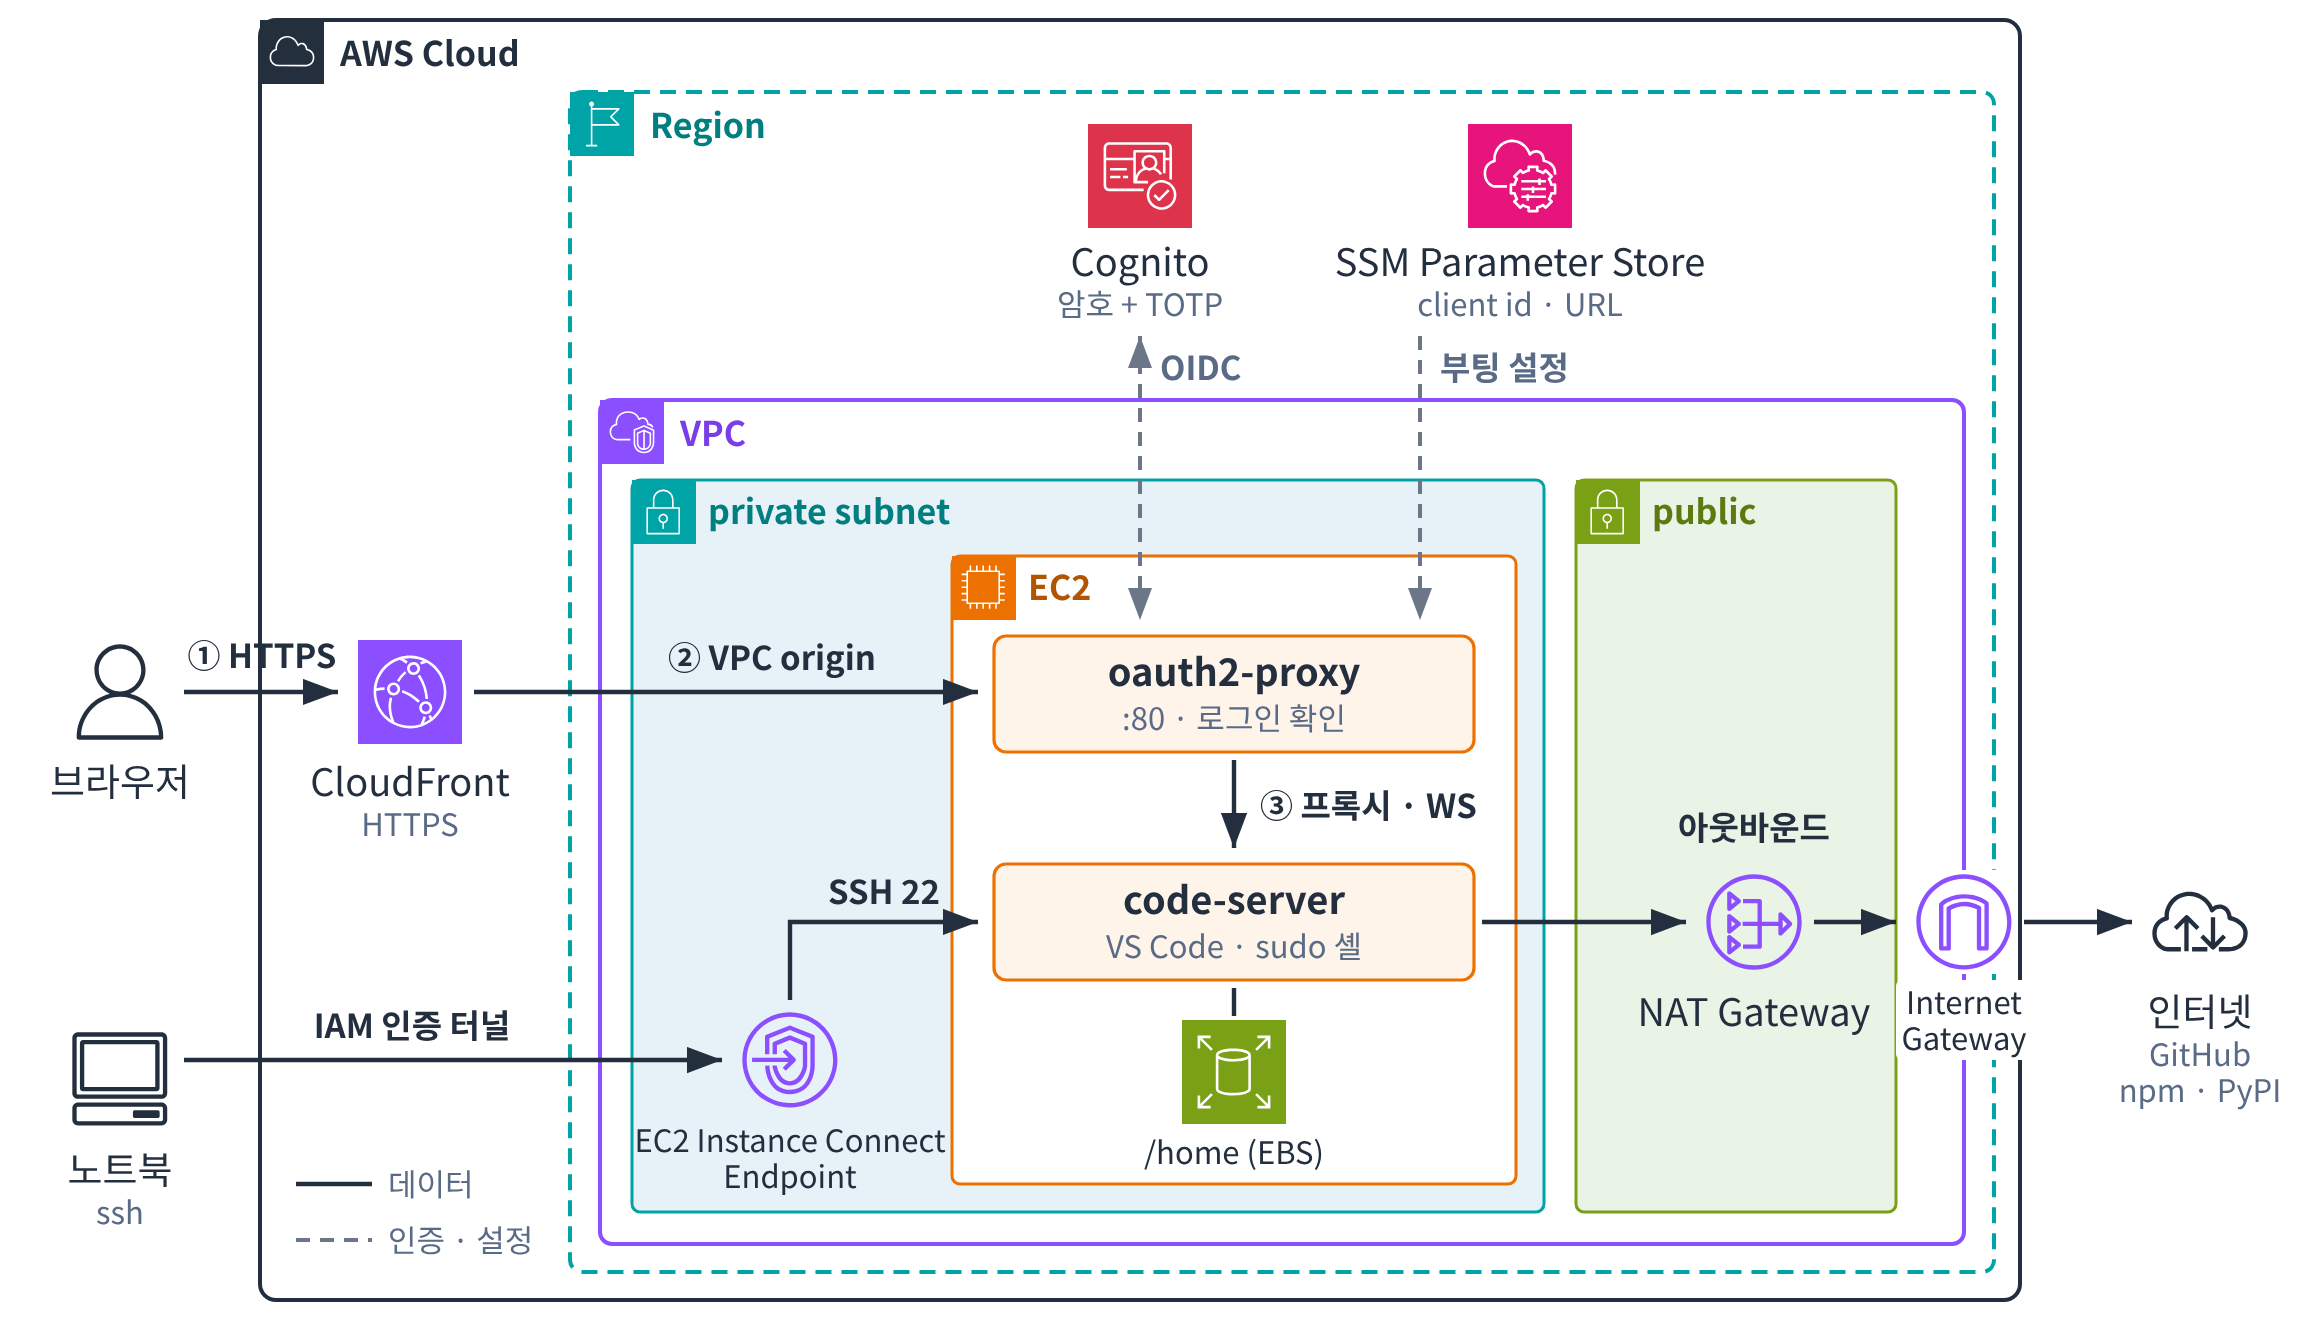
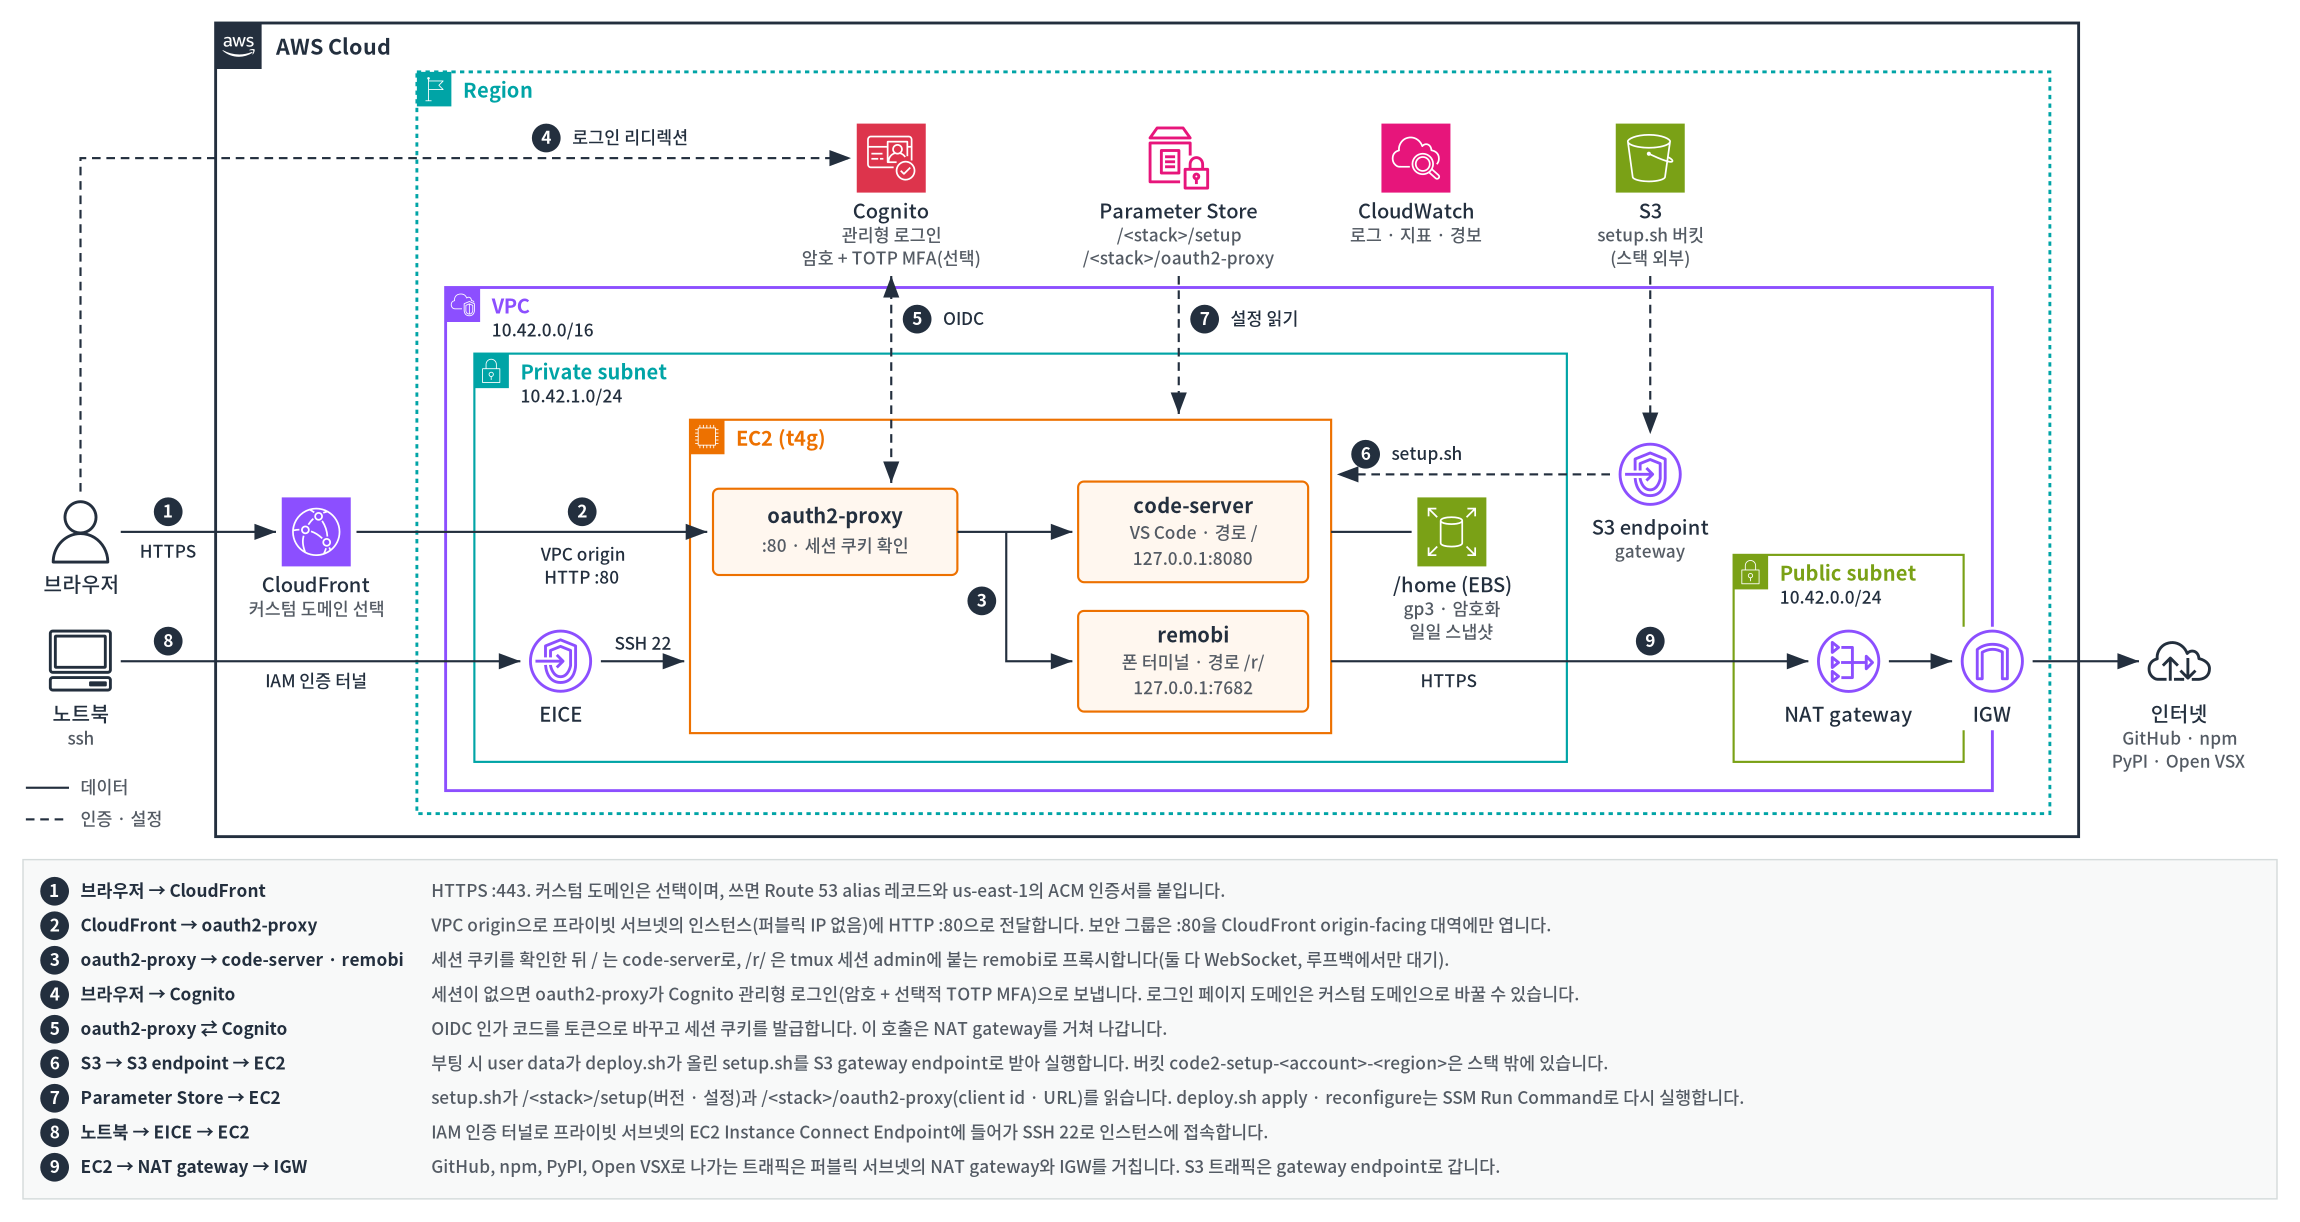
Update the README and redraw the architecture diagram for the running setup with remobi at /r/, the S3 setup script and Parameter Store
Claude-Session: https://claude.ai/code/session_01FCkWSnG8xfbsxvfYSimAa1

Changed region(s): [[0.0, 0.0, 0.9878, 0.9951], [0.9261, 0.7463, 1.0, 0.8396], [0.0926, 0.1244, 0.1235, 0.1555]]

diff --git a/README.md b/README.md
@@ -1,14 +1,14 @@
 <h1 align="center">code2</h1>
 
 <p align="center"><b>내 AWS 계정에 만드는 브라우저용 개인 VS Code 개발 서버</b><br>
-CloudFront → private EC2(Graviton) → code-server, Cognito 로그인(기본 MFA)</p>
+CloudFront → private EC2(Graviton) → code-server · 휴대폰 터미널(remobi), Cognito 로그인(기본 MFA)</p>
 
 ---
 
 ## 한눈에 보기
 
 - CloudFormation 스택 하나로 **전용 VPC, private EC2, CloudFront, Cognito 로그인**이 모두 만들어집니다. 미리 준비할 네트워크나 리소스는 없습니다. 이미 있는 VPC에 넣을 수도 있습니다.
-- 배포가 끝나면 받은 URL에 접속해 Cognito로 로그인(암호 + TOTP, `CODE2_MFA=off`면 암호만)합니다. 로그인하면 바로 VS Code가 열립니다.
+- 배포가 끝나면 받은 URL에 접속해 Cognito로 로그인(암호 + TOTP, `CODE2_MFA=off`면 암호만)합니다. 로그인하면 바로 VS Code가 열립니다. 같은 로그인으로 `<URL>/r/`에서 휴대폰에 맞춘 터미널([remobi](https://github.com/connorads/remobi))도 씁니다.
 - 서버는 공인 IP가 없는 private 서브넷의 EC2(기본 `t4g.medium`, 2 vCPU / 4 GiB, 다른 Graviton·x86 Nitro 타입도 가능)입니다. 외부에서 들어오는 길은 **CloudFront(HTTPS)** 와 **EC2 Instance Connect Endpoint(SSH, IAM 인증)** 두 가지뿐입니다.
 - 작업 공간(`/home`)은 별도 EBS 볼륨에 있어서 인스턴스를 바꿔도 남습니다. 매일 스냅샷으로 백업합니다.
 - 도메인은 없어도 됩니다. 기본으로 CloudFront 주소(`https://dxxxx.cloudfront.net`)를 쓰고, Route 53 도메인이 있으면 `code.example.com` 같은 주소로 붙일 수 있습니다.
@@ -29,14 +29,14 @@ export CODE2_ADMIN_EMAIL=you@example.com      # 임시 암호를 받을 메일
 
 infra/deploy.sh stack plan     # 사전 점검 후 변경 세트만 만들고 내용을 보여 줍니다
 infra/deploy.sh stack apply    # 실행 (약 15–20분, 서버 설정이 끝날 때까지 기다립니다)
-infra/deploy.sh status         # URL 확인, 서비스가 active active 이면 준비 완료
+infra/deploy.sh status         # URL 확인, 서비스가 active active active 이면 준비 완료
 ```
 
 1. `CODE2_ADMIN_EMAIL`로 임시 암호가 옵니다(7일 유효).
 2. `status`에 나온 URL에 접속해 임시 암호로 로그인합니다.
 3. 새 암호(기본 12자 이상, `CODE2_PASSWORD_MIN_LENGTH`)를 정하고 인증 앱(Google Authenticator, 1Password 등)에 TOTP를 등록합니다(`CODE2_MFA=off`면 암호만 정합니다).
 
-`stack apply`는 인스턴스가 code-server와 oauth2-proxy를 다 띄웠다고 알려 올 때까지 기다립니다. 설정이 실패하면(다운로드 실패, Cognito 설정 오류 등) 스택이 롤백되고, 실패한 줄과 로그 끝부분이 `BootWait` 이벤트 사유에 나옵니다. 원인을 인스턴스에서 직접 보려면 `CODE2_KEEP_ON_FAILURE=1 infra/deploy.sh stack apply`로 롤백 없이 실행합니다.
+`stack apply`는 인스턴스가 code-server, remobi, oauth2-proxy를 다 띄웠다고 알려 올 때까지 기다립니다. 설정이 실패하면(다운로드 실패, Cognito 설정 오류 등) 스택이 롤백되고, 실패한 줄과 로그 끝부분이 `BootWait` 이벤트 사유에 나옵니다. 원인을 인스턴스에서 직접 보려면 `CODE2_KEEP_ON_FAILURE=1 infra/deploy.sh stack apply`로 롤백 없이 실행합니다.
 
 `plan`은 변경 세트를 만들기 전에 스택 이름 규칙, Nitro 인스턴스 타입인지, 그 타입을 제공하는 AZ, VPC·EIP·EICE 할당량을 확인합니다.
 
@@ -69,10 +69,10 @@ export CODE2_SUBNET_ID=subnet-0123...     # private 서브넷, 0.0.0.0/0 → NAT
 ### 전체 구성
 
 <p align="center">
-  <img src="docs/architecture.png" alt="code2 아키텍처: 브라우저 → CloudFront → VPC origin → private subnet의 EC2(oauth2-proxy → code-server, /home EBS). Cognito 로그인, SSM으로 부팅 설정, EC2 Instance Connect Endpoint로 SSH, NAT Gateway로 아웃바운드" width="100%">
+  <img src="docs/architecture.png" alt="code2 구성도: 브라우저가 CloudFront와 VPC origin을 거쳐 private subnet EC2의 oauth2-proxy(Cognito 로그인)로 들어가 code-server와 remobi에 연결되고, 부팅 때 S3 gateway endpoint로 setup.sh를, Parameter Store에서 설정을 받으며, 노트북은 EC2 Instance Connect Endpoint로 SSH하고 아웃바운드는 NAT gateway와 IGW로 나갑니다" width="100%">
 </p>
 
-실선은 데이터가 지나는 경로이고, 점선은 인증·설정 같은 제어 경로입니다. 바깥에서 들어오는 길은 CloudFront와 EC2 Instance Connect Endpoint 두 곳뿐이고, 인스턴스에는 공인 IP가 없습니다. dnf 저장소 같은 S3 트래픽은 그림에 없는 S3 게이트웨이 엔드포인트로 NAT를 거치지 않고 나갑니다. 그림에 없는 CloudWatch(로그·지표·알람)와 Data Lifecycle Manager(일일 스냅샷)도 함께 만들어집니다. 설정 스크립트를 두는 S3 버킷 `code2-setup-<계정>-<리전>`은 스택 밖에서 `deploy.sh`가 만듭니다.
+실선은 데이터가 지나는 경로이고, 점선은 인증·설정 같은 제어 경로입니다. 번호는 그림 아래 표의 단계와 같습니다. 바깥에서 들어오는 길은 CloudFront와 EC2 Instance Connect Endpoint 두 곳뿐이고, 인스턴스에는 공인 IP가 없습니다. dnf 저장소와 `setup.sh` 같은 S3 트래픽은 S3 게이트웨이 엔드포인트로 NAT를 거치지 않고 나갑니다. 설정 스크립트를 두는 S3 버킷 `code2-setup-<계정>-<리전>`은 스택 밖에서 `deploy.sh`가 만듭니다. 그림에 없는 Data Lifecycle Manager(일일 스냅샷)와, 도메인을 쓸 때의 Route 53 레코드·ACM 인증서도 함께 만들어집니다.
 
 ### 브라우저 접속 흐름
 
@@ -81,7 +81,7 @@ export CODE2_SUBNET_ID=subnet-0123...     # private 서브넷, 0.0.0.0/0 → NAT
 3. 사용자가 암호와 TOTP(`Mfa=on`일 때)로 로그인하면 Cognito가 `/oauth2/callback`으로 되돌려 보냅니다. oauth2-proxy는 코드를 토큰으로 바꾸고 ID 토큰을 검증한 뒤 세션 쿠키를 발급합니다.
 4. 이후 요청은 oauth2-proxy가 `127.0.0.1:8080`의 **code-server**로 프록시합니다. 에디터와 터미널이 쓰는 WebSocket도 같은 경로로 지나갑니다. code-server는 `--auth none`이라 따로 로그인을 묻지 않고, 루프백에만 열려 있어서 oauth2-proxy를 거치지 않고는 닿을 수 없습니다.
    `/r`과 그 아래 요청은 같은 세션으로 `127.0.0.1:7682`의 **remobi**(브라우저 터미널)로 갑니다. remobi도 code-server처럼 루프백에만 열려 있어서 oauth2-proxy를 거쳐야만 닿습니다.
-5. 세션은 최대 `SessionHours`(기본 12시간) 유지됩니다. oauth2-proxy가 30분마다 refresh 토큰으로 갱신하고, refresh 토큰이 만료되면 다시 로그인해야 합니다.
+5. 세션은 로그인한 때부터 최대 `SessionHours`(기본 12시간) 유지됩니다. 활동이 있어도 늘어나지 않습니다. oauth2-proxy가 30분마다 refresh 토큰으로 ID·Access 토큰(60분)을 갱신하고, 쿠키와 refresh 토큰이 만료되면 다시 로그인해야 합니다. remobi 터미널은 tmux 세션에 붙어 있으므로, 다시 로그인하면 하던 화면이 그대로 이어집니다.
 6. 로그아웃은 `status`에 나오는 **logout** 주소로 합니다. oauth2-proxy 세션과 Cognito 세션을 모두 끝내고 로그인 화면으로 돌아옵니다.
 
 ### 부팅과 설정
@@ -132,14 +132,14 @@ export CODE2_SUBNET_ID=subnet-0123...     # private 서브넷, 0.0.0.0/0 → NAT
 
 ### 기본 설치 도구
 
-`git`, `python3` (+ `pip`), `gcc`, `make`, `tmux`, `jq`, AWS CLI v2. **Node.js와 Docker는 설치되어 있지 않습니다.**
+`git`, `python3` (+ `pip`), `gcc`, `gcc-c++`, `make`, `tmux`, `jq`, AWS CLI v2, Node.js 22(`nodejs22`, `node`·`npm`). remobi가 쓰려고 설치하지만, remobi는 `node-22`를 직접 부르므로 다른 Node.js 버전을 기본으로 바꿔도 됩니다. **Docker는 설치되어 있지 않습니다.**
 
 필요한 도구는 직접 설치합니다. 인스턴스를 교체하면 `/` 아래는 새로 만들어지므로, 오래 쓸 도구는 `/home` 아래에 설치하는 편이 안전합니다.
 
 | 설치 위치 | 예 | 인스턴스 교체 시 |
 |---|---|---|
 | `/home/ec2-user` (사용자 단위) | `nvm`/`fnm`으로 Node, `uv`/`pipx`로 Python 도구, `~/.local/bin`, 저장소, VS Code 설정과 확장 | **유지** |
-| `/` (시스템 단위) | `sudo dnf install nodejs20 python3.12 docker` | 다시 설치해야 함 |
+| `/` (시스템 단위) | `sudo dnf install nodejs24 python3.12 docker` (기본 `node`·`npm`은 가장 높은 버전을 따르고, `sudo alternatives --config node`로 바꿉니다) | 다시 설치해야 함 |
 
 ### 쓰는 방법
 
@@ -162,7 +162,7 @@ GitHub에는 인스턴스에서 `ssh-keygen -t ed25519`로 키를 만든 뒤 계
 |---|---|
 | `infra/deploy.sh stack plan` | 변경 세트를 만들고 변경 내용만 보여 줍니다. 아무것도 바꾸지 않습니다 |
 | `infra/deploy.sh stack apply` | `setup.sh`를 S3에 올리고 가장 최근 변경 세트를 실행한 뒤, 인스턴스에서 `setup.sh`를 다시 실행합니다. plan 이후 템플릿이나 `setup.sh`가 바뀌었으면 실행하지 않습니다 |
-| `infra/deploy.sh status` | URL, 로그아웃 주소, 인스턴스 상태, 서비스 상태, `/home` 사용량, 설치된 버전을 보여 줍니다 |
+| `infra/deploy.sh status` | URL, 터미널 주소(`/r/`), 로그아웃 주소, 인스턴스 상태, 서비스 상태(code-server, oauth2-proxy, remobi), `/home` 사용량, 설치된 버전을 보여 줍니다 |
 | `infra/deploy.sh logs [-f] [기간]` | CloudWatch Logs의 설정 로그를 봅니다(기본 최근 1시간, 예: `logs 1d`, `logs -f`) |
 | `infra/deploy.sh reconfigure` | `setup.sh`를 S3에 올리고 재시작 없이 인스턴스에서 실행합니다(스택 변경 없이 `setup.sh`만 바꿨을 때) |
 | `infra/deploy.sh ssh [명령]` | EICE를 거쳐 `ec2-user`로 SSH 접속합니다 |
@@ -184,6 +184,7 @@ GitHub에는 인스턴스에서 `ssh-keygen -t ed25519`로 키를 만든 뒤 계
 | `CODE2_DATA_SIZE` | `50` | 늘리기만 | `/home` GiB. 늘리면 다음 설정 실행 때 파일시스템도 늘립니다 |
 | `CODE2_ROOT_SIZE` | `30` | 언제든 | `/` GiB. 바꾸면 인스턴스 교체 |
 | `CODE2_CODE_SERVER_VERSION` / `CODE2_OAUTH2_PROXY_VERSION` | `4.139.1` / `7.15.5` | 언제든 | 재시작 없이 새 버전을 설치하고 그 서비스만 재시작합니다 |
+| `CODE2_REMOBI_VERSION` | `1.2.1` | 언제든 | `/r/` 터미널(remobi) 버전. 위와 같이 그 자리에서 설치합니다 |
 | `CODE2_SESSION_HOURS` | `12` | 언제든 | 로그인 유지 시간(1–168) |
 | `CODE2_MFA` | `on` | 언제든 | `on`: 첫 로그인 때 TOTP를 등록하고 매번 코드를 입력합니다. `off`: 암호만. 나중에 `on`으로 바꾸면 사용자는 다음 로그인 때 TOTP를 등록합니다. Cognito의 OPTIONAL은 관리형 로그인이 TOTP 등록 화면을 띄우지 않아 넣지 않았습니다 |
 | `CODE2_AUTO_UPDATES` | `true` | 언제든 | 매일 보안 업데이트 |
@@ -239,7 +240,7 @@ CODE2_UPDATE_AMI=1 infra/deploy.sh stack plan   # 최신 AL2023으로 교체
 ### 모니터링
 
 - 항상 켜지는 것
-  - CloudWatch 에이전트가 설정 로그(`/code2/<스택 이름>`, 30일 보관)를 보냅니다.
+  - CloudWatch 에이전트가 설정 로그와 유휴 중지 로그(`/code2/<스택 이름>`, 30일 보관)를 보냅니다.
   - `/`·`/home` 디스크 사용률과 메모리 사용률을 5분마다 지표로 보냅니다.
 - `CODE2_ALARM_EMAIL`을 지정하면 SNS 토픽과 알람이 만들어집니다. 처음에 오는 **구독 확인 메일**을 승인해야 알림을 받습니다.
   - EC2 상태 검사 실패 (복구될 때도 알림)
@@ -280,6 +281,7 @@ aws cognito-idp admin-create-user --user-pool-id <UserPoolId> --username <이름
 systemctl status code-server oauth2-proxy remobi
 journalctl -u oauth2-proxy -n 50        # 로그인 / 콜백 오류
 journalctl -u code-server -n 50
+journalctl -u remobi -n 50              # /r/ 터미널
 sudo tail -n 50 /var/log/code2-setup.log # 부팅 설정 기록 (매 부팅)
 ```
 
